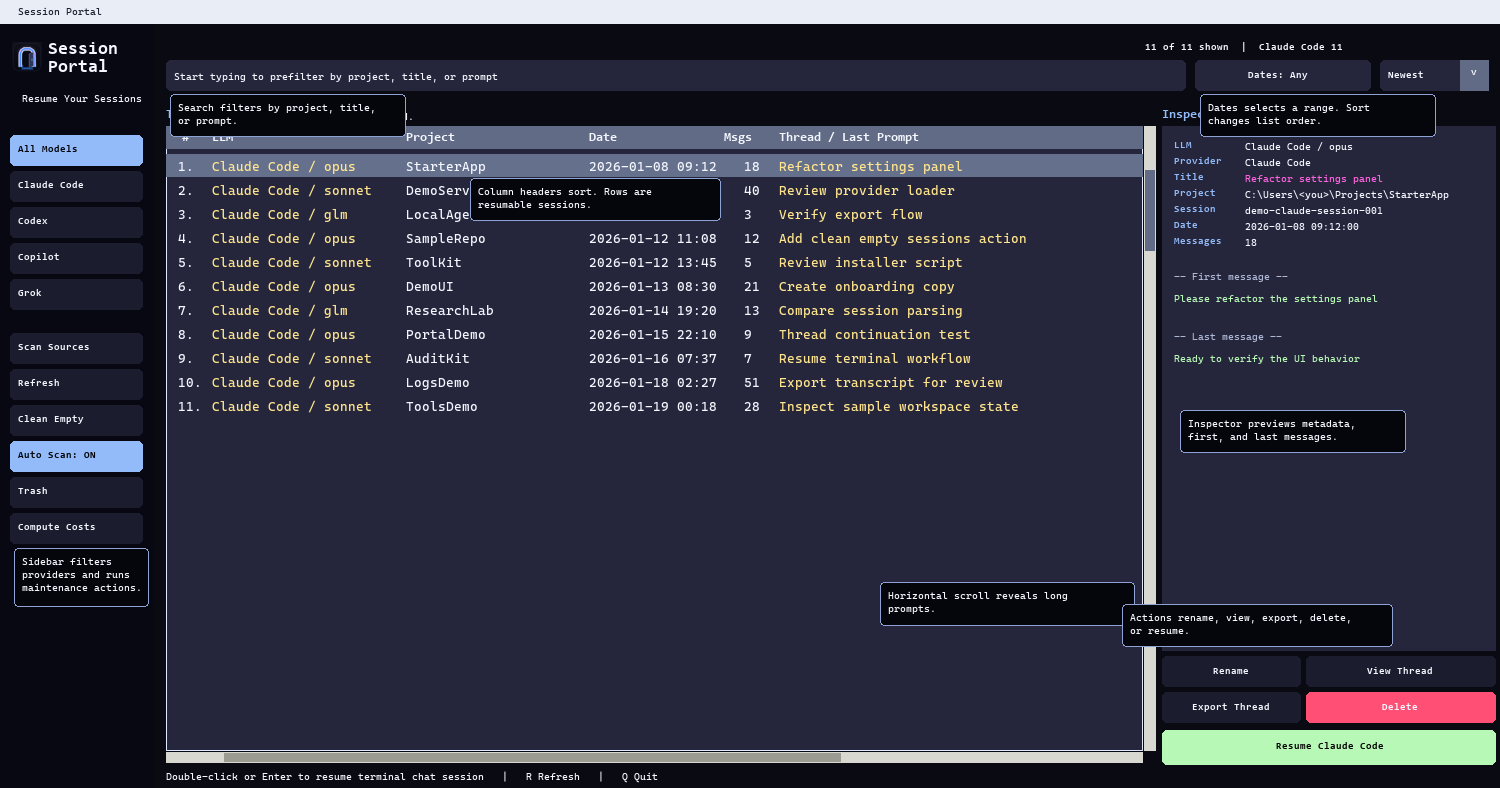
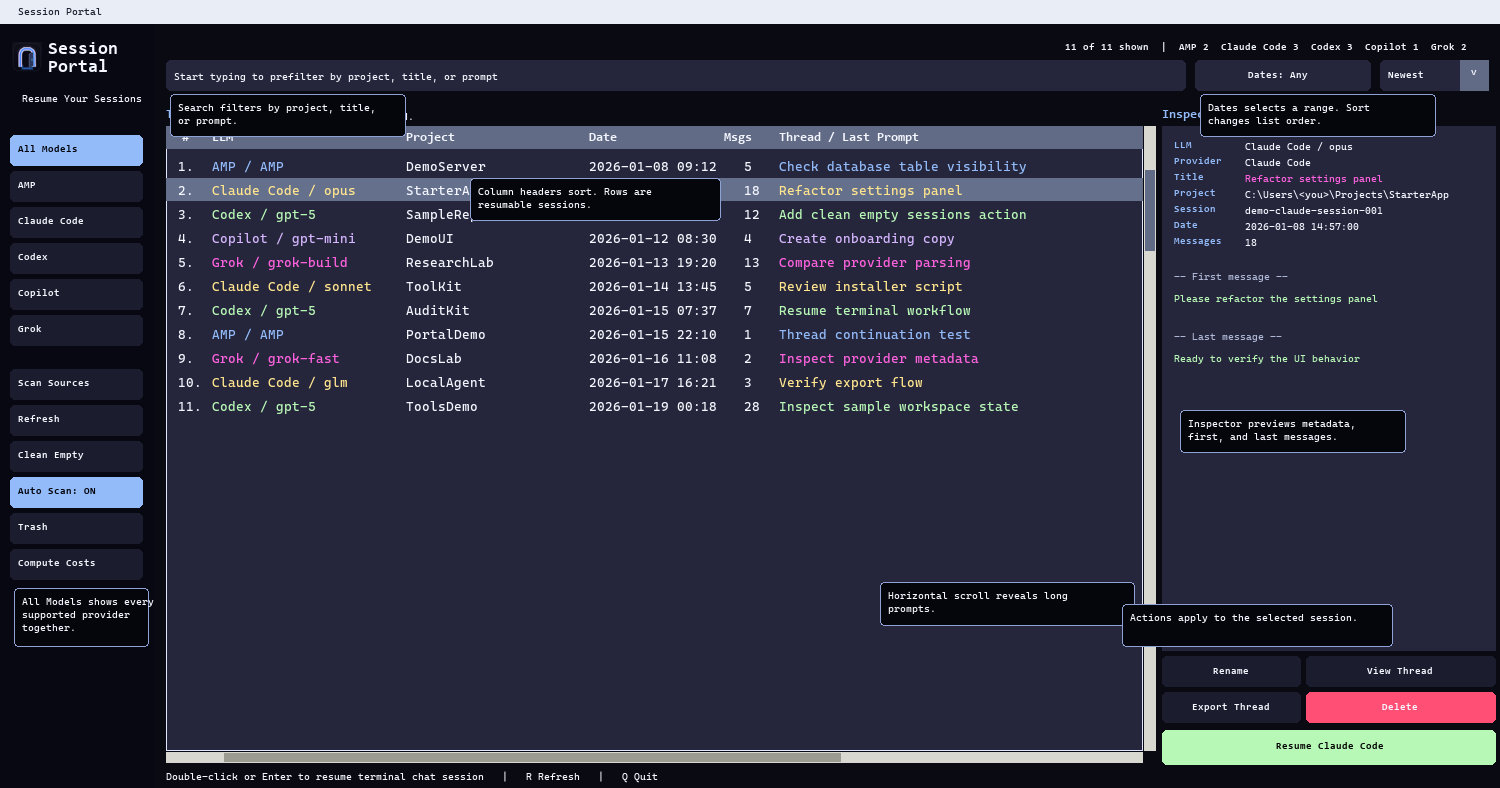
Show mixed providers in all models screenshot

diff --git a/README.md b/README.md
@@ -167,13 +167,13 @@ Click a row to inspect it. Double-click a row or press `Enter` to resume it.
 
 ### Screen Walkthrough
 
-These screenshots use a synthetic Claude Code demo flow. They do not show real user paths, project names, prompts, or session IDs.
+These screenshots use synthetic demo data. The All Models view shows multiple supported providers together, then the Claude Code screenshots show the same workflow after filtering to one provider. They do not show real user paths, project names, prompts, or session IDs.
 
 #### All Models
 
 ![Session Portal all models view](App/assets/claude-code-flow-all-models.png)
 
-Shows the combined resumable session list across enabled providers. The sidebar filters by provider, the table shows session metadata, and the inspector previews the selected row.
+Shows the combined resumable session list across enabled providers. A user starts here to see everything Session Portal found, then clicks a provider such as Claude Code to narrow the table.
 
 #### Provider Filter
 

diff --git a/App/README.md b/App/README.md
@@ -11,4 +11,4 @@ For install steps, screenshots, usage, update, uninstall, and security notes, us
 - `assets/claude-code-flow-thread-view.png`
 - `assets/claude-code-flow-resume-terminal.png`
 
-The screenshots use synthetic demo data. They do not show real user paths, project names, prompts, or session IDs.
+The screenshots use synthetic demo data. The All Models image shows a mixed provider list, then the Claude Code images show the filtered resume flow. They do not show real user paths, project names, prompts, or session IDs.